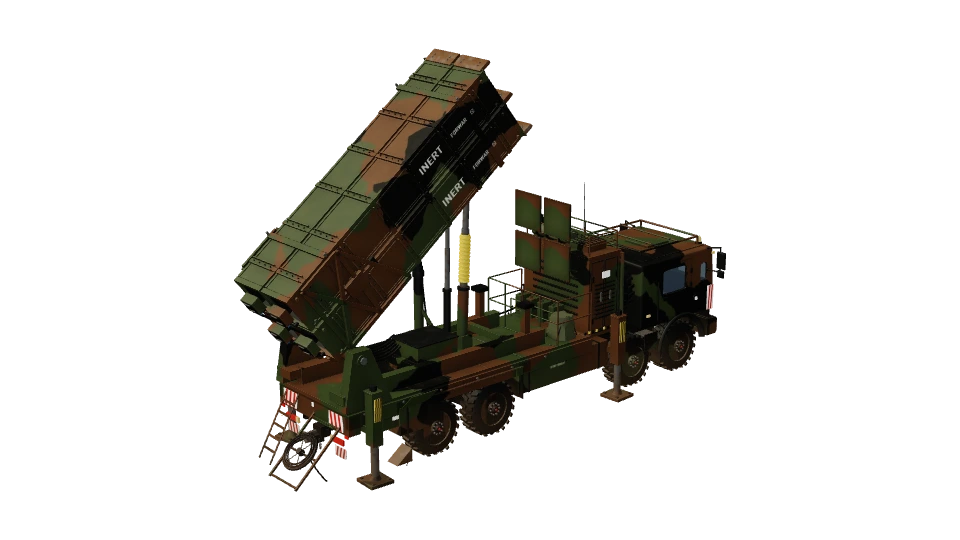
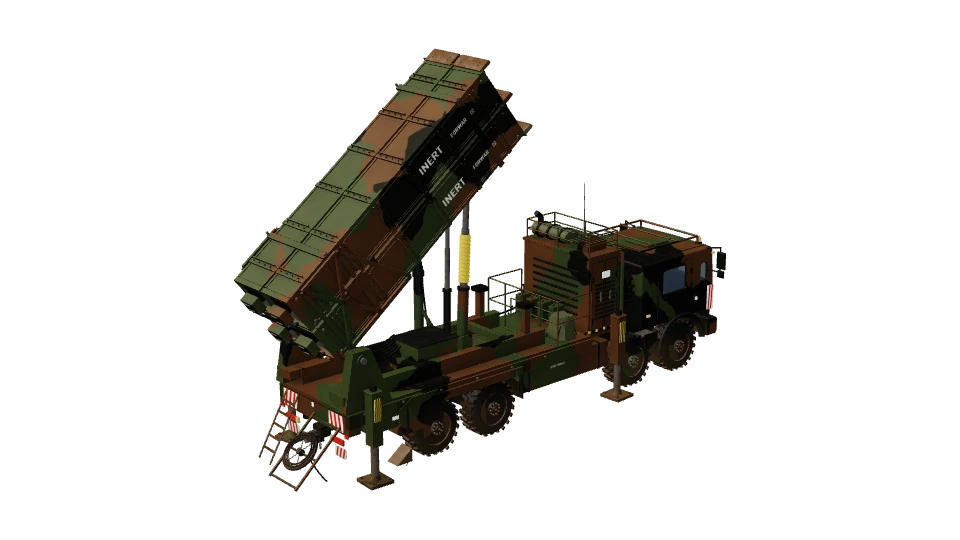
Воздушное превосходство: миниатюра Patriot — крышки контейнеров на поднятом пакете; проба естественного света миниатюр (за параметрами)

Changed region(s): [[0.5312, 0.3556, 0.5938, 0.5037]]

diff --git a/fortuna-bot-web/tools/airdef-models/thumbs.html b/fortuna-bot-web/tools/airdef-models/thumbs.html
@@ -40,7 +40,7 @@ async function unitObj(key) {
     else { if (md.turret) mesh(md.turret, tg); const lg = launcherGlb(key); if (lg) { cg.add(lg); lg.position.set(Ld.slots[0][0], Ld.slots[0][1] - 0.06, Ld.slots[0][2]); } else if (md.cradle) mesh(md.cradle, cg); }
     if (gm && gm.missile) for (const sp of Ld.slots) { const q = new THREE.Group(); q.add(gm.missile.clone()); if (gm.booster) q.add(gm.booster.clone()); q.position.fromArray(sp); cg.add(q); }
     if (md.slotGeo && !gm) for (const sp of Ld.slots) { const sm = new THREE.Mesh(md.slotGeo, md.LN.box ? unitMat : wMat); sm.position.fromArray(sp); cg.add(sm); }
-    if (gm && gm.lids) for (const l of gm.lids) if (l) (md.LN.lids && md.LN.lids.onPack ? cg : tg).add(l.clone()); // крышки ячеек «Тора» и контейнеров NASAMS — закрыты, в осях башни; С-300 — в осях пакета
+    if (gm && gm.lids) for (const l of gm.lids) if (l) ((md.LN.lids && md.LN.lids.onPack) || md.LN.blowLids ? cg : tg).add(l.clone()); // крышки ячеек «Тора» и контейнеров NASAMS — закрыты, в осях башни; С-300 и Patriot — в осях пакета
     if (gm && gm.tdish) tg.add(gm.tdish.clone()); // антенна сопровождения «Тора» — в положении покоя
     tg.rotation.y = md.LN.yaw0 || 0; cg.rotation.x = md.LN.el ?? 0.35; tg.add(cg); g.add(tg); tur.push(tg); // как стоит в бою (sim/strike.js: lyaw, lel)
   }
@@ -72,8 +72,23 @@ async function objOf(n) {
 // свет как в бою (city-render.js / drone/world.js): небо + солнце + отражения неба (PMREM), ACES с экспозицией 1,1
 r.toneMapping = THREE.ACESFilmicToneMapping; r.toneMappingExposure = 1.1; r.physicallyCorrectLights = false;
 // материалы моделей — Phong (отражения неба им не нужны): мягкий «студийный» свет — небо сверху, светлая земля снизу, солнце, заполняющий и контровой
-const sc = new THREE.Scene(); sc.add(new THREE.HemisphereLight(0xe2ecff, 0x9a9584, 1.05)); const dl = new THREE.DirectionalLight(0xfff0d8, 1.9); dl.position.set(-4, 7, 5); sc.add(dl);
+const sc = new THREE.Scene();
+// проба: sat — насыщенность готового кадра (ACES насыщает тёмные и уводит коричневый в рыжий; Blender у сборщиков — наоборот, приглушает)
+const SAT = Q.get('sat') ? +Q.get('sat') : 1;
+function desat(src, s) {
+  const c = document.createElement('canvas'); c.width = src.width; c.height = src.height; const x = c.getContext('2d'); x.drawImage(src, 0, 0);
+  const d = x.getImageData(0, 0, c.width, c.height), a = d.data;
+  for (let i = 0; i < a.length; i += 4) { const l = 0.2126 * a[i] + 0.7152 * a[i + 1] + 0.0722 * a[i + 2]; for (let k = 0; k < 3; k++) a[i + k] = l + (a[i + k] - l) * s; }
+  x.putImageData(d, 0, 0); return c.toDataURL('image/webp', 0.92);
+}
+if (Q.get('tm') === 'lin') r.toneMapping = THREE.LinearToneMapping;
+if (Q.get('light') === '2') { // проба: естественнее — солнце со стороны камеры (камера справа сзади), нейтральное; мягкое небо и тёмная земля; без тёплой подсветки снизу
+  r.toneMappingExposure = +(Q.get('exp') || 1.0); sc.add(new THREE.HemisphereLight(0xe6edf5, 0x6e6a5f, +(Q.get('hemi') || 1.15))); const dl = new THREE.DirectionalLight(0xfff8ee, +(Q.get('sun') || 1.45)); dl.position.set(4, 7, 6); sc.add(dl);
+  const f = new THREE.DirectionalLight(0xe8eef5, 0.4); f.position.set(-6, 2, 2); sc.add(f);
+} else {
+sc.add(new THREE.HemisphereLight(0xe2ecff, 0x9a9584, 1.05)); const dl = new THREE.DirectionalLight(0xfff0d8, 1.9); dl.position.set(-4, 7, 5); sc.add(dl);
 { const f = new THREE.DirectionalLight(0xdfe8ff, 0.6); f.position.set(5, 1, 3); sc.add(f); const b = new THREE.DirectionalLight(0xffffff, 0.45); b.position.set(0, 3, -6); sc.add(b); const u = new THREE.DirectionalLight(0xe8e2d0, 0.35); u.position.set(1, -4, 3); sc.add(u); }
+}
 { const es = new THREE.Scene(), g = new THREE.SphereGeometry(50, 32, 16), col = [], pos = g.attributes.position;
   for (let i = 0; i < pos.count; i++) { const y = pos.getY(i) / 50, c = new THREE.Color(y > 0 ? 0x9cc2e8 : 0x5d6450).lerp(new THREE.Color(0xdfe6ea), Math.max(0, 1 - Math.abs(y) * 3)); col.push(c.r, c.g, c.b); }
   g.setAttribute('color', new THREE.Float32BufferAttribute(col, 3)); es.add(new THREE.Mesh(g, new THREE.MeshBasicMaterial({ vertexColors: true, side: THREE.BackSide })));
@@ -102,7 +117,7 @@ for (const id of IDS) {
     for (let i = 0; i < a.count; i += st) { V.fromBufferAttribute(a, i).applyMatrix4(m.matrixWorld).project(cam); x0 = Math.min(x0, V.x); x1 = Math.max(x1, V.x); y0 = Math.min(y0, V.y); y1 = Math.max(y1, V.y); } });
   const z = Math.min(1.74 / Math.max(0.01, x1 - x0), 1.64 / Math.max(0.01, y1 - y0)); cam.zoom = z; cam.updateProjectionMatrix();
   cam.setViewOffset(W, H, (x0 + x1) / 2 * z * W / 2, -(y0 + y1) / 2 * z * H / 2, W, H);
-  r.render(sc, cam); out[id] = r.domElement.toDataURL('image/webp', 0.92); sc.remove(o);
+  r.render(sc, cam); out[id] = SAT === 1 ? r.domElement.toDataURL('image/webp', 0.92) : desat(r.domElement, SAT); sc.remove(o);
   const f = document.createElement('figure'); f.innerHTML = `<img src="${out[id]}"><figcaption>${n.short} · ${id}</figcaption>`; grid.appendChild(f);
 }
 window.__thumbs = out; window.__ok = 1;

diff --git a/fortuna-bot-web/tools/airdef-models/poses.html b/fortuna-bot-web/tools/airdef-models/poses.html
@@ -41,7 +41,7 @@ async function unitObj(key) {
     else { if (md.turret) mesh(md.turret, tg); const lg = launcherGlb(key); if (lg) { cg.add(lg); lg.position.set(Ld.slots[0][0], Ld.slots[0][1] - 0.06, Ld.slots[0][2]); } else if (md.cradle) mesh(md.cradle, cg); }
     if (gm && gm.missile) for (const sp of Ld.slots) { const q = new THREE.Group(); q.add(gm.missile.clone()); if (gm.booster) q.add(gm.booster.clone()); q.position.fromArray(sp); cg.add(q); }
     if (md.slotGeo && !gm) for (const sp of Ld.slots) { const sm = new THREE.Mesh(md.slotGeo, md.LN.box ? unitMat : wMat); sm.position.fromArray(sp); cg.add(sm); }
-    if (gm && gm.lids) for (const l of gm.lids) if (l) (md.LN.lids && md.LN.lids.onPack ? cg : tg).add(l.clone()); // крышки ячеек «Тора» и контейнеров NASAMS — закрыты, в осях башни; С-300 — в осях пакета
+    if (gm && gm.lids) for (const l of gm.lids) if (l) ((md.LN.lids && md.LN.lids.onPack) || md.LN.blowLids ? cg : tg).add(l.clone()); // крышки ячеек «Тора» и контейнеров NASAMS — закрыты, в осях башни; С-300 и Patriot — в осях пакета
     if (gm && gm.tdish) tg.add(gm.tdish.clone()); // антенна сопровождения «Тора» — в положении покоя
     tg.rotation.y = md.LN.yaw0 || 0; cg.rotation.x = md.LN.el ?? 0.35; tg.add(cg); g.add(tg); tur.push(tg); // как стоит в бою (sim/strike.js: lyaw, lel)
   }

diff --git a/fortuna-bot-web/AIRDEF_STATE.md b/fortuna-bot-web/AIRDEF_STATE.md
@@ -1527,3 +1527,4 @@ Mark работает с **Opus на высоком усилии** — он ру
 - 2026-11-02 · Opus 5.5 · **своя модель С-400** (Mark: «с-400 готов — можешь внедрять в игру, ракета у него будет та, что делали раньше» — 9М83, хотя это ракета С-300В): собрал сборщик объектов из нашей С-300 (Свои/С-400, ревизия 1: запаска в корзине за кабинами, окраска «тёмный Б» — почти чёрная зелень с сильным износом, новые фары; 202,6 тыс. тр., дальняя s400_lo — 75,7 тыс.; узлы и шарниры — как у С-300, стёкла кабин и фар — BLEND). prepare.js s400 / s400_lo = копии CONFIG.s300 / s300_lo с другим src; models.js: META s300 units [s300], новая s400 units [s400], GLB_V 20261102a, UNIT_LO + s400; launchers.js без изменений (S300 общий, слоты те же); ktx; миниатюра pvo_s400 переснята (pvo_s300 — байт в байт прежняя). Стенд пуска (fly.js s400, эпоха 4): пакет поднимается, 9М83 выходит, ошибок нет. Тесты site, ui, sim, combined, tbm прошли. Не задеплоено.
 - 2026-11-02 · Opus 5.5 · **С-300: стёкла с бликом; С-400 не такая чёрная** (Mark: «да, сделай такие же стёкла. и почему миниатюра с-400 такая чёрная?»). (1) prepare.js: новое поле cfg.alpha { имя: α } — непрозрачный материал сборщика становится стеклом (BLEND); у s300 / s300_lo S3_glassF 0,85, S3_lensF 0,9, как у С-400 (у s400 alpha: null — стёкла сборщика уже BLEND, файл байт в байт прежний); s300.glb изменился только в двух материалах, ktx те же, GLB_V s300 / s300_lo → 20261102b. (2) Почему чёрная: текстура С-400 в среднем 34/255 против 50 у С-300, а игра (Phong + ACES) давит тёмные: краска С-300 в игре на 20 % темнее превью Blender (72 → 58), а почти чёрная С-400 — втрое (33 → 11). META s400 bright 2 (как s125 1,9) даёт те же 80 % (→ 25–28), в бою пусковая 22 → 34. Миниатюры pvo_s400 и pvo_s300 пересняты. Тесты site, ui, sim, combined, tbm. Не задеплоено.
 - 2026-11-02 · Opus 5.5 · **своя пусковая Patriot (MAN 8×8) и ракета PAC-2** (Mark: «пак-2 готов — можешь внедрять в игру»): собрал сборщик Patriot (Свои/Patriot, 143,9 тыс. тр., дальняя patriot_lo 82 тыс.; Свои/PAC-2 — 5,3 м, Ø 0,41, 4,2 тыс. тр.). prepare.js: CONFIG.patriot / patriot_lo (patriotPart: как s300Part + подкос cyl_strut_* → cyl3…5, мачта mast_s2…4 → mast0…2; стекло PT_glassF → alpha 0,85; атласы C, W вдвое меньше), msl_pac2 (рули P2_fin → fin0…3, не складываются); старая M901 Muhamad Mirza Arrafi переименована в pac3 (pac3.glb байт в байт прежний patriot.glb, credits / CREDITS.md — файл pac3), PAC-3 на ней, пока сборщик не сдаст свою. launchers.js PATRIOT: как С-300 — tp = шарнир PACK_PIVOT (0; 2,6; 5,4), подъём от РЛС на 38° (домкраты 0,55 м за 3 с, пакет 10 с), slewY 0 (азимут не наводится — у настоящей ±110°, поворот заказан сборщику для PAC-3), слоты — середины ракет [±0,49; 0,685 / 1,665; −3,3], erect.cyl2 — подкос, erect.mast / mastT — мачта, blowLids — рвущиеся крышки. cylPose(LN, el, c) — третий аргумент (какой цилиндр); main.js: цилиндры списком, мачта по РЛС за mastT, blowLids (крышки ушедших ракет скрыты до перезарядки), листы холодного старта — только mode cold; thumbs.html / poses.html — подкос и мачта (на значке мачта опущена). models.js: META patriot units [patriot], msl_pac2 samMissile [patriot] lazy, pac3 units [pac3], GLB_V 20261102a, UNIT_LO + patriot, parts mast. Стенды (scratchpad flame/fly.js, lview.js): подъём 7 с → 12°, боевое 38°, походное — всё сложено, после 2 пусков крышки [нет, нет, есть, есть]; миниатюра pvo_patriot переснята (pvo_pac3, pvo_s300 — байт в байт). Звуки СПО: помощник-разведчик не нашёл записей с лицензией (только 3 синтетических CC0 в Звуки/СПО и предупреждения). Не задеплоено; при деплое — update.ps1 (launchers.js в симуляции сервера).
+- 2026-11-02 · Opus 5.5 · **Patriot: правки после ревью и миниатюра** (Mark: «у миниатюры странные цвета… крышки остались внизу при поднятой установке»). thumbs.html / poses.html: рвущиеся крышки (blowLids) — в осях пакета; pvo_patriot переснята. Цвета: ACES игры насыщает тёмные и уводит коричневый в рыжий, солнце миниатюр светит с другой стороны, чем камера, + тёплая подсветка снизу. Проба нового света в thumbs.html за параметрами адреса (light=2 — солнце со стороны камеры, нейтральное, без подсветки снизу; sat — насыщенность кадра; exp / hemi / sun; tm=lin) — по умолчанию свет прежний, миниатюры байт в байт; вариант «light=2&sat=0.8&exp=1.2&hemi=1.35&sun=1.6» показан Mark, ждёт решения (тогда — перепечь все 170). Ревью 30aa78c (airdef-reviewer): ошибок, ломающих бой, нет; до update.ps1 онлайн с Patriot неправильный (старый сервер: пакет крутится, авто не стреляет, старт не из контейнеров); курс при расстановке случайный, slewY 0 — половина пусков уходит от цели и доворачивает (вопрос Mark: поворот и для Patriot); баланс — в засаде / от ПРР пакет 10–13 с (как у С-300); фон меню shots/patriot-frost.webp — ещё старая M901 (переснять, capture.js).
